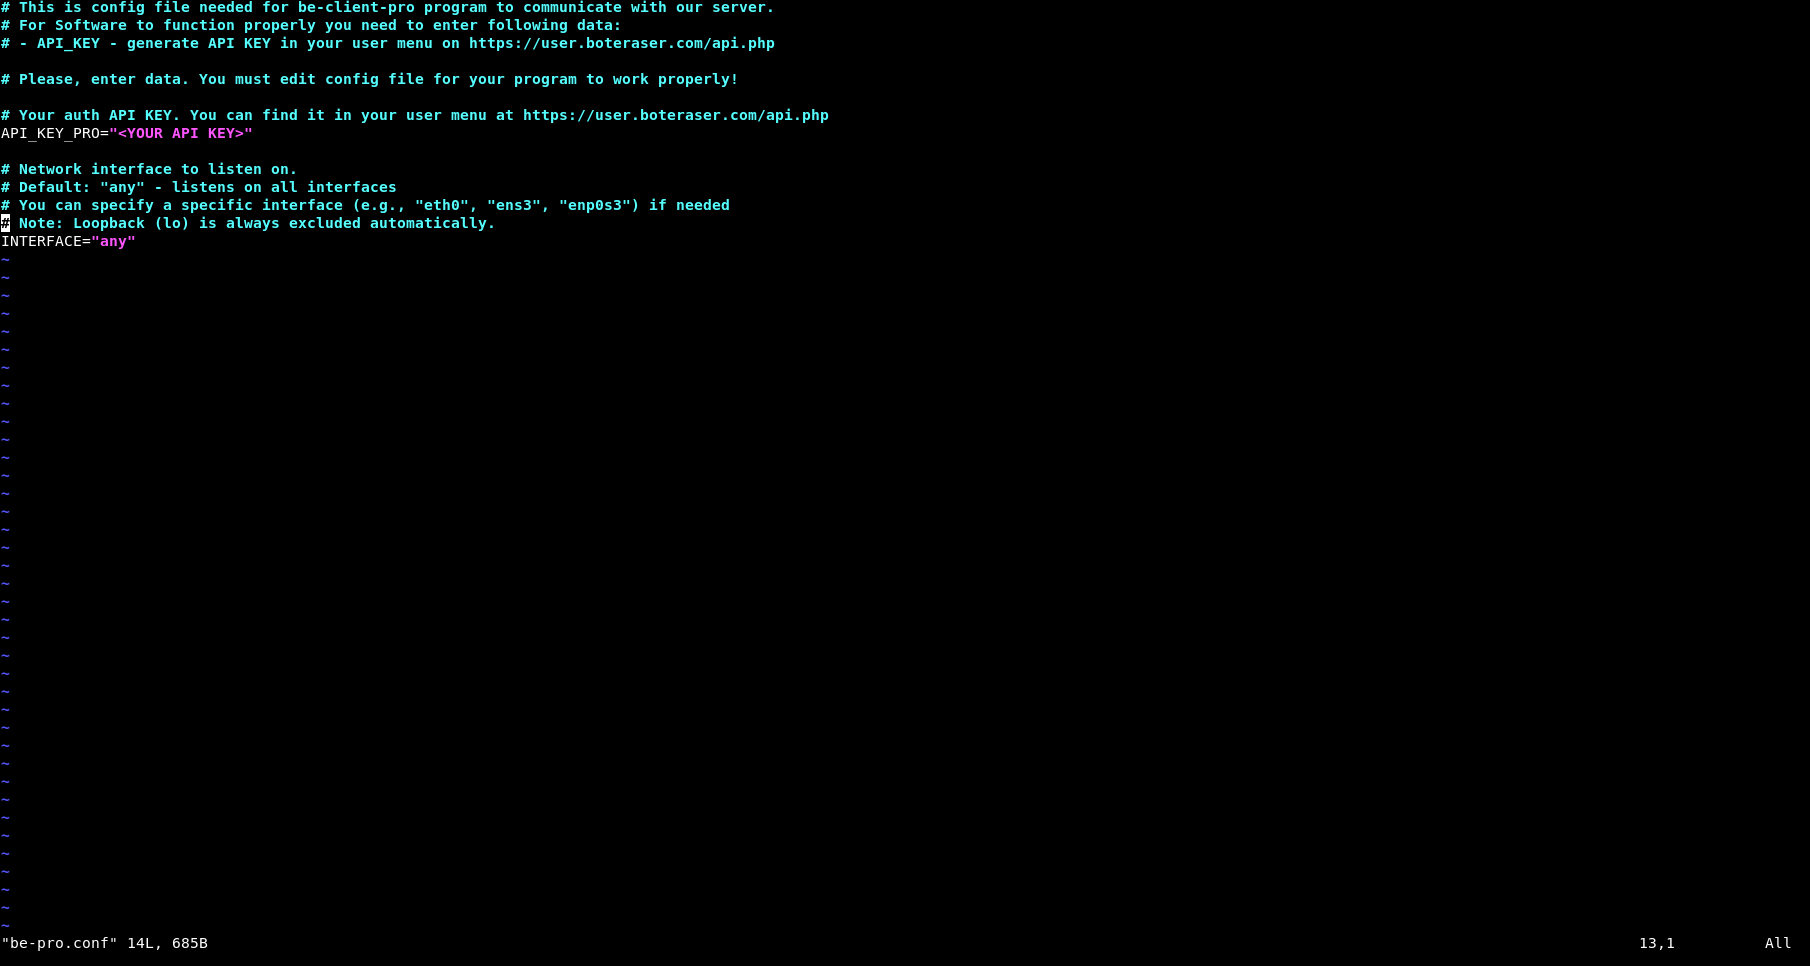
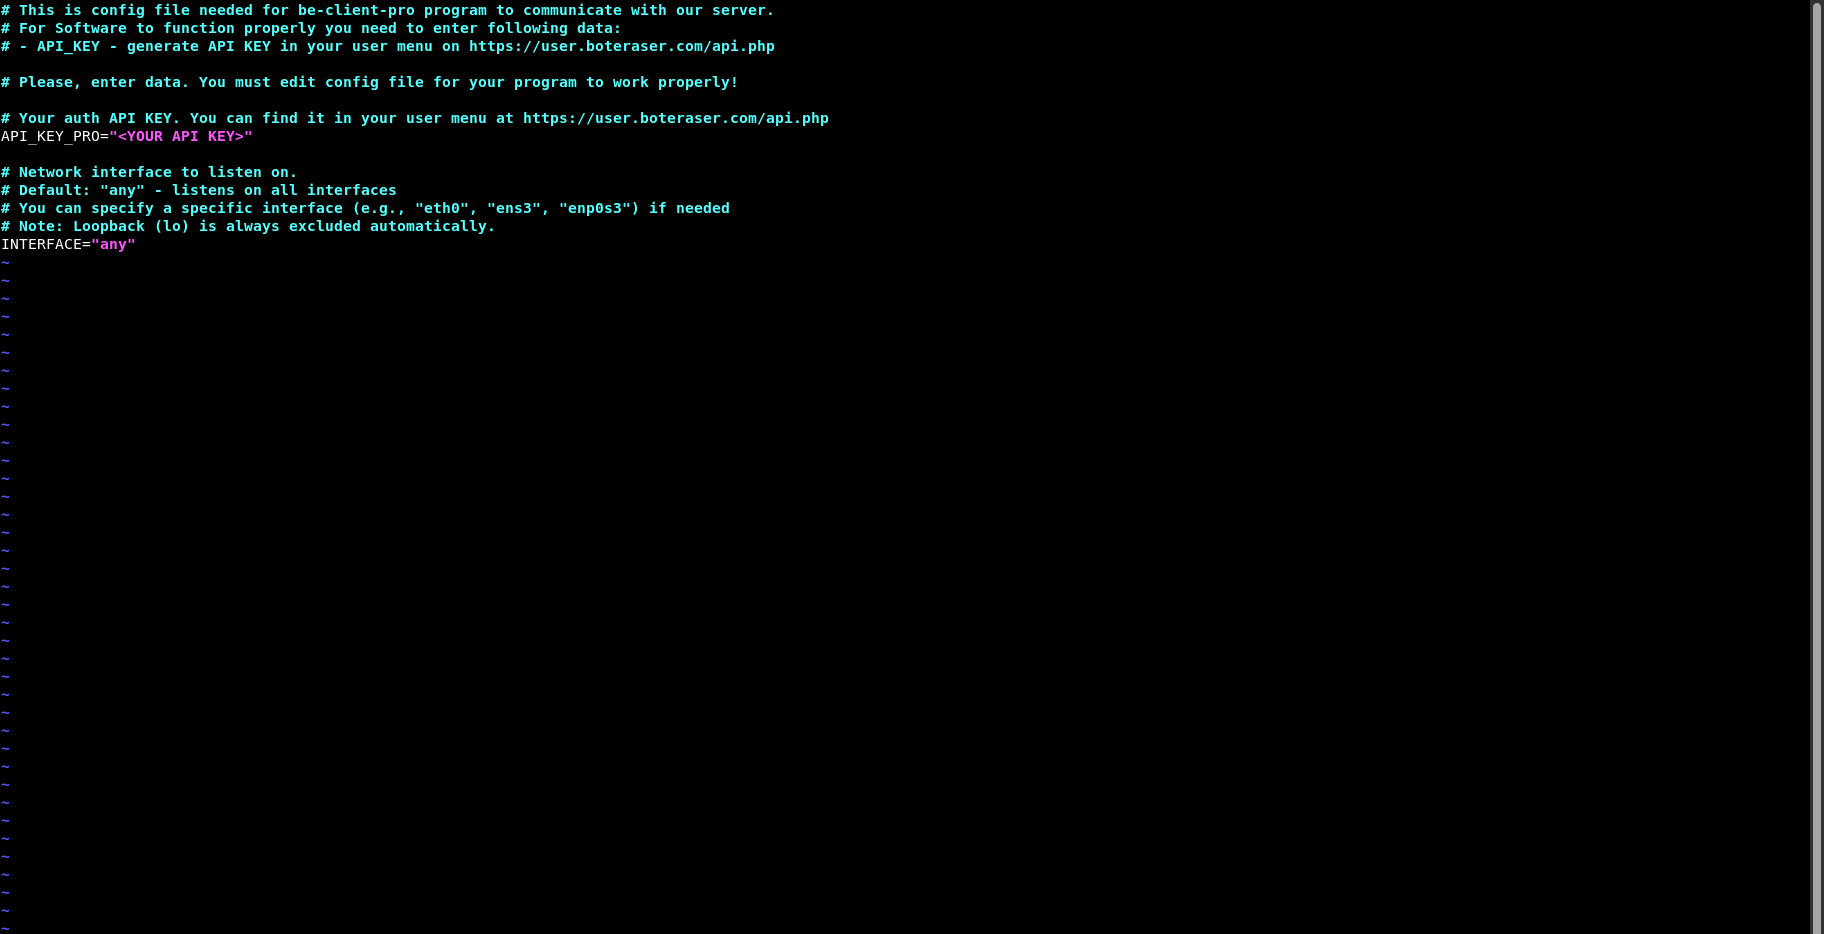
feat: Add automated PRO server install script and documentation, update main README, and

diff --git a/be-client-pro-install-script/README.md b/be-client-pro-install-script/README.md
@@ -1,0 +1,121 @@
+# BE Client PRO Install Script (Recommended)
+
+Short description: Automated installer that sets up the BE Client PRO on your VPS or dedicated server with minimal interaction. Provides full server protection across all services.
+
+## Why this
+- One-command style setup
+- Handles common dependencies and system wiring for you
+- Best option if you don't need step-by-step manual control
+- Protects your entire server, not just web traffic
+
+Manual install alternative: ../be-client-pro/README.md
+
+## Prerequisites
+- Linux server (VPS or Dedicated)
+- Shell access (bash) with sudo/root privileges
+- tar installed (to extract the archive)
+
+## Quick start
+1. Copy the installer archive to your server and extract it:
+
+```bash
+cd /path/where/you/placed/the/archive
+ls -lh be-client-pro-install-script.tar.gz
+sudo tar -xzf be-client-pro-install-script.tar.gz
+cd be-client-pro-install-script*/
+```
+
+2. Run the installer script:
+
+```bash
+chmod +x be-install-pro
+sudo ./be-install-pro
+```
+
+3. Follow the prompts. The script will:
+- Install required components (iptables, ipset, tcpdump, curl, awk)
+- Configure network interface monitoring
+- Set up the BE Client PRO
+- Print where to check status/logs
+
+## Configuration options
+
+During installation, you'll be asked for:
+
+| Option | Description | Example |
+|--------|-------------|---------|
+| Install location | Directory where BE Client PRO will be installed | `/opt` |
+| API Key | Your Boteraser PRO API key from user dashboard | `xxxxxxxx-xxxx-xxxx-xxxx-xxxxxxxxxxxx` |
+| Network Interface | Interface to monitor (`any` for all interfaces) | `any`, `eth0`, `ens3` |
+
+## Cron scheduling (every 5 minutes)
+Run every 5 minutes via cron:
+
+Without logging:
+```bash
+*/5 * * * * cd /opt/boteraser-pro && ./be-client-pro >/dev/null 2>&1
+```
+
+With logging:
+```bash
+*/5 * * * * cd /opt/boteraser-pro && ./be-client-pro >>/var/log/be-client-pro.log 2>&1
+```
+
+Use absolute paths; create `/var/log/` directory if missing.
+
+## PRO Features
+
+| Feature | Description |
+|---------|-------------|
+| 🛡 Full Server Protection | Protects all services, not just web traffic |
+| 🔍 Real-time Traffic Analysis | Network packet capture via tcpdump |
+| 🌐 Dual-stack Support | IPv4 and IPv6 protection |
+| ⚡ High-performance Blocking | ipset-based firewall rules |
+| ⏱ Auto-expiring Blocks | 24-hour timeout on blocked IPs |
+
+## Standard vs PRO
+
+| Feature | Standard | PRO |
+|---------|----------|-----|
+| Web traffic protection | ✅ | ✅ |
+| Full server protection | ❌ | ✅ |
+| Requires access.log | ✅ | ❌ |
+| Network-level monitoring | ❌ | ✅ |
+| IPv6 support | ❌ | ✅ |
+| All services protected | ❌ | ✅ |
+
+## Next steps
+- Verify the service status (the installer will indicate how)
+- Keep the script folder for re-runs or reference
+- For advanced/fully manual control, see: ../be-client-pro/README.md
+
+## Useful commands
+
+Check blocked IPv4 addresses:
+```bash
+ipset list boteraser-pro-v4
+```
+
+Check blocked IPv6 addresses:
+```bash
+ipset list boteraser-pro-v6
+```
+
+Clear all IPv4 blocks:
+```bash
+ipset flush boteraser-pro-v4
+```
+
+Clear all IPv6 blocks:
+```bash
+ipset flush boteraser-pro-v6
+```
+
+## Screenshots
+
+Install the script with the automated installer or set it up manually—both deliver the same protection. Below is example screenshot showing the BE Client PRO installation process:
+
+### Automated Installer in Action
+The `be-install-pro` script guides you through the setup, installing dependencies and configuring the BE Client PRO to protect your entire server automatically.
+
+![BE Install PRO Script](../images/be-install-pro.png)

diff --git a/README.md b/README.md
@@ -16,12 +16,17 @@ One-command automated setup for VPS or dedicated servers. Handles dependencies a
 
 Full control manual installation for VPS or dedicated servers. Choose this if you need step-by-step customization.
 
-### 3. **Manual Server Install Pro**
+### 3. **Automated Server Install Pro**
+📁 [`be-client-pro-install-script/README.md`](be-client-pro-install-script/README.md)
+
+One-command automated setup for the Pro version. Installs dependencies and configures full server protection automatically.
+
+### 4. **Manual Server Install Pro**
 📁 [`be-client-pro/README.md`](be-client-pro/README.md)
 
 Advanced server-wide protection for VPS or dedicated servers. Protects your **entire server** across all services (SSH, FTP, email, databases, etc.), not just web traffic. Premium pricing justified by protecting multiple services with a single solution, eliminating the need for separate security tools per service.
 
-### 4. **WordPress Plugin**
+### 5. **WordPress Plugin**
 📁 [`wordpress-plugin/README.md`](wordpress-plugin/README.md)
 
 Easy WordPress integration. Install directly through your WordPress admin panel without managing a server.
